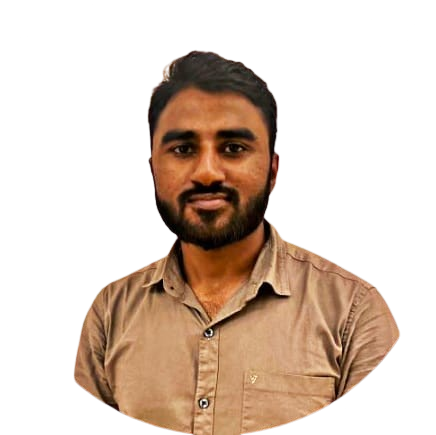
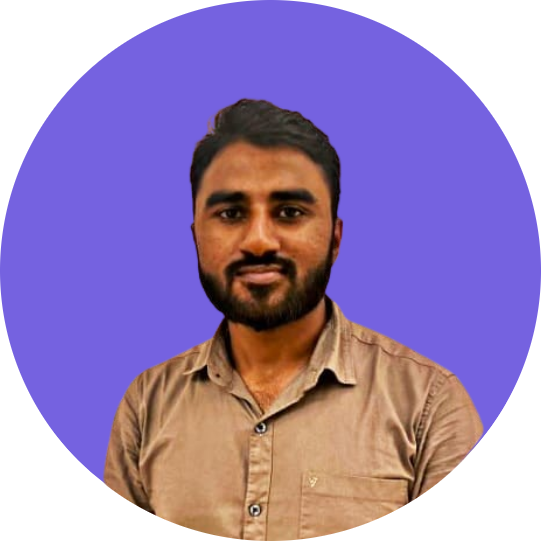
profile image changed

diff --git a/src/components/Hero/Hero.jsx b/src/components/Hero/Hero.jsx
@@ -1,275 +1,3 @@
-// // src/components/Hero.jsx
-// import React, { useRef } from "react";
-// import "./hero.css";
-// import { Row, Col, Button } from "antd";
-// import { color, motion, stagger, useInView } from "framer-motion";
-// export default function Hero() {
-//   const ref = useRef();
-//   const isInView = useInView(ref, { once: "true" });
-//   const variant = {
-//     hidden: { opacity: 0, y: 50 },
-//     visible: { opacity: 1, y: 0 },
-//   };
-//   const transition = { duration: 0.5, ease: "easeOut" };
-//   const backgroundVariantBtn = {
-//     initial: {
-//       backgroundColor: "#6c63ff",
-//       color: "#fff",
-//     },
-//     hover: {
-//       backgroundColor: "#fff",
-//       color: "#6c63ff",
-//       transition: {
-//         delay: 0.1,
-//         duration: 0.5,
-//         ease: [0.19, 1, 0.22, 1],
-//       },
-//     },
-//     animate: {
-//       backgroundColor: "#6c63ff",
-//       transition: {
-//         delay: 0.1,
-//         duration: 0.5,
-//         ease: [0.19, 1, 0.22, 1],
-//       },
-//     },
-//   };
-//   const firstTextVariant = {
-//     initial: {
-//       y: 0,
-//     },
-//     hover: {
-//       y: -30,
-//       transition: {
-//         duration: 1.125,
-//         ease: [0.19, 1, 0.22, 1],
-//       },
-//     },
-//     animate: {
-//       y: 0,
-//       transition: {
-//         duration: 1.125,
-//         ease: [0.19, 1, 0.22, 1],
-//       },
-//     },
-//   };
-//   const secondTextVariant = {
-//     initial: {
-//       y: 20,
-//     },
-//     hover: {
-//       y: 0,
-//       transition: {
-//         duration: 1.125,
-//         ease: [0.19, 1, 0.22, 1],
-//       },
-//     },
-//     animate: {
-//       y: 20,
-//       transition: {
-//         duration: 1.125,
-//         ease: [0.19, 1, 0.22, 1],
-//       },
-//     },
-//   };
-//   const outlineBackgroundVariantBtn = {
-//     initial: {
-//       backgroundColor: "#fff",
-//       color: "black",
-//     },
-//     hover: {
-//       backgroundColor: "transparent",
-//       color: "#fff",
-//       transition: {
-//         delay: 0,
-//         duration: 0.1,
-//         ease: [0.19, 1, 0.22, 1],
-//       },
-//       borderColor: "#fff",
-//     },
-//     animate: {
-//       backgroundColor: "#fff",
-//       transition: {
-//         delay: 0.1,
-//         duration: 0.1,
-//         ease: [0.19, 1, 0.22, 1],
-//       },
-//     },
-//   };
-
-//   return (
-//     <section
-//       className="hero-section"
-//       style={{ padding: "4rem 2rem", textAlign: "left" }}
-//     >
-//       {/* <motion.div
-//         className="background-text"
-//         initial={{ x: "-100%" }}
-//         animate={{ x: "100%" }}
-//         transition={{
-//           duration: 30,
-//           repeat: Infinity,
-//           ease: "linear",
-//           repeatType: "loop",
-//         }}
-//       >
-//         {" "}
-//         FULLSTACK DOTNET DEVELOPER{" "}
-//       </motion.div>{" "} */}
-//       <Row align={"middle"} gutter={[16, 16]} style={{ gap: "20px" }}>
-//         <Col ref={ref}>
-//           <motion.h2
-//             variants={variant}
-//             transition={transition}
-//             initial={"hidden"}
-//             animate={"visible"}
-//             style={{ marginTop: "0" }}
-//           >
-//             Hello, I’m
-//           </motion.h2>
-//           <motion.h1
-//             variants={variant}
-//             initial={"hidden"}
-//             animate={"visible"}
-//             transition={transition}
-//             style={{ fontSize: "3rem" }}
-//           >
-//             Loshithan Paramaguru
-//             <span style={{ color: "var(--primary-color)" }}>.</span>
-//           </motion.h1>
-//           <motion.h3
-//             variants={variant}
-//             initial={"hidden"}
-//             animate={"visible"}
-//             style={{ fontSize: "3rem" }}
-//             transition={transition}
-//           >
-//             <span style={{ color: "GrayText" }}>I'm a</span>{" "}
-//             <span style={{ color: "var(--primary-color)" }}>
-//               Full Stack Developer
-//             </span>
-//           </motion.h3>
-// <div style={{ marginTop: "2rem" }}>
-//   <Row gutter={16} style={{ marginLeft: "-16px" }}>
-//     <motion.button
-//       size="large"
-//       style={{
-//         margin: "0 1rem",
-//         padding: "0.5rem 1rem",
-//         border: "none",
-//         cursor: "pointer",
-//         display: "flex", // Use flexbox for alignment
-//         alignItems: "center",
-//         justifyContent: "space-between", // Adjust spacing between items
-//       }}
-//       type="default"
-//       initial="initial"
-//       whileHover="hover"
-//       animate="animate"
-//       variants={backgroundVariantBtn}
-//     >
-//       <div className="overflow-hidden relative">
-//         <motion.p
-//           variants={firstTextVariant}
-//           style={{ margin: 0, fontWeight: 700 }}
-//         >
-//           About me
-//           <motion.span
-//             variants={firstTextVariant}
-//             style={{ fontSize: "1.2rem" }}
-//             className=" material-icons "
-//           >
-//             person
-//           </motion.span>
-//         </motion.p>
-
-//         <motion.p
-//           variants={secondTextVariant}
-//           aria-hidden
-//           style={{ margin: 0, fontWeight: 700 }}
-//           className="absolute top-0 left-0 "
-//         >
-//           About me
-//           <motion.span
-//             variants={secondTextVariant}
-//             aria-hidden
-//             style={{ fontSize: "1.2rem" }}
-//             className=" material-icons "
-//           >
-//             person
-//           </motion.span>
-//         </motion.p>
-//       </div>
-//     </motion.button>
-//     <motion.button
-//       size="large"
-//       style={{
-//         margin: "0 1rem",
-//         padding: "0.5rem 1rem",
-//         cursor: "pointer",
-//         display: "flex", // Use flexbox for alignment
-//         alignItems: "center",
-//         justifyContent: "space-between", // Adjust spacing between items
-//       }}
-//       initial="initial"
-//       whileHover="hover"
-//       animate="animate"
-//       variants={outlineBackgroundVariantBtn}
-//       type="default"
-//       // variant="outlined"
-//     >
-//       <div className="overflow-hidden relative">
-//         <motion.p
-//           style={{ margin: 0, fontWeight: 700 }}
-//           variants={firstTextVariant}
-//         >
-//           Projects{" "}
-//           <motion.span
-//             class="material-icons"
-//             style={{ fontSize: "1.2rem" }}
-//             variants={firstTextVariant}
-//           >
-//             visibility
-//           </motion.span>
-//         </motion.p>
-//         <motion.p
-//           style={{ margin: 0, fontWeight: 700 }}
-//           aria-hidden
-//           className="absolute top-0 left-0 "
-//           variants={secondTextVariant}
-//         >
-//           Projects{" "}
-//           <motion.span
-//             class="material-icons "
-//             aria-hidden
-//             style={{ fontSize: "1.2rem" }}
-//             variants={secondTextVariant}
-//           >
-//             visibility
-//           </motion.span>
-//         </motion.p>
-//       </div>
-//     </motion.button>
-//   </Row>
-// </div>
-//         </Col>
-//         <Col>
-//           <div>
-//             {" "}
-//             <motion.img
-//               src="src/assets/circle.png"
-//               alt="circle"
-//               style={{ height: "400px" }}
-//               initial={{ scale: 0, opacity: 0 }}
-//               animate={{ scale: 1, opacity: 1 }}
-//               transition={{ duration: 2, ease: "easeInOut" }}
-//             />{" "}
-//           </div>{" "}
-//         </Col>
-//       </Row>
-//     </section>
-//   );
-// }
 import React, { useRef } from "react";
 import "./hero.css";
 import { Row, Col, Grid } from "antd";
@@ -528,16 +256,16 @@ export default function Hero() {
           style={{ display: "flex", justifyContent: "center" }}
         >
           <motion.img
-            src="/assets/circle.png"
+            src="/assets/profile.png"
             alt="circle"
             style={{
               height: "400px",
               maxWidth: "100%",
               objectFit: "cover",
             }}
-            initial={{ scale: 0, opacity: 0 }}
-            animate={{ scale: 1, opacity: 1 }}
-            transition={{ duration: 2, ease: "easeInOut" }}
+            // initial={{ scale: 0, opacity: 0 }}
+            // animate={{ scale: 1, opacity: 1 }}
+            // transition={{ duration: 2, ease: "easeInOut" }}
           />
         </Col>
       </Row>
